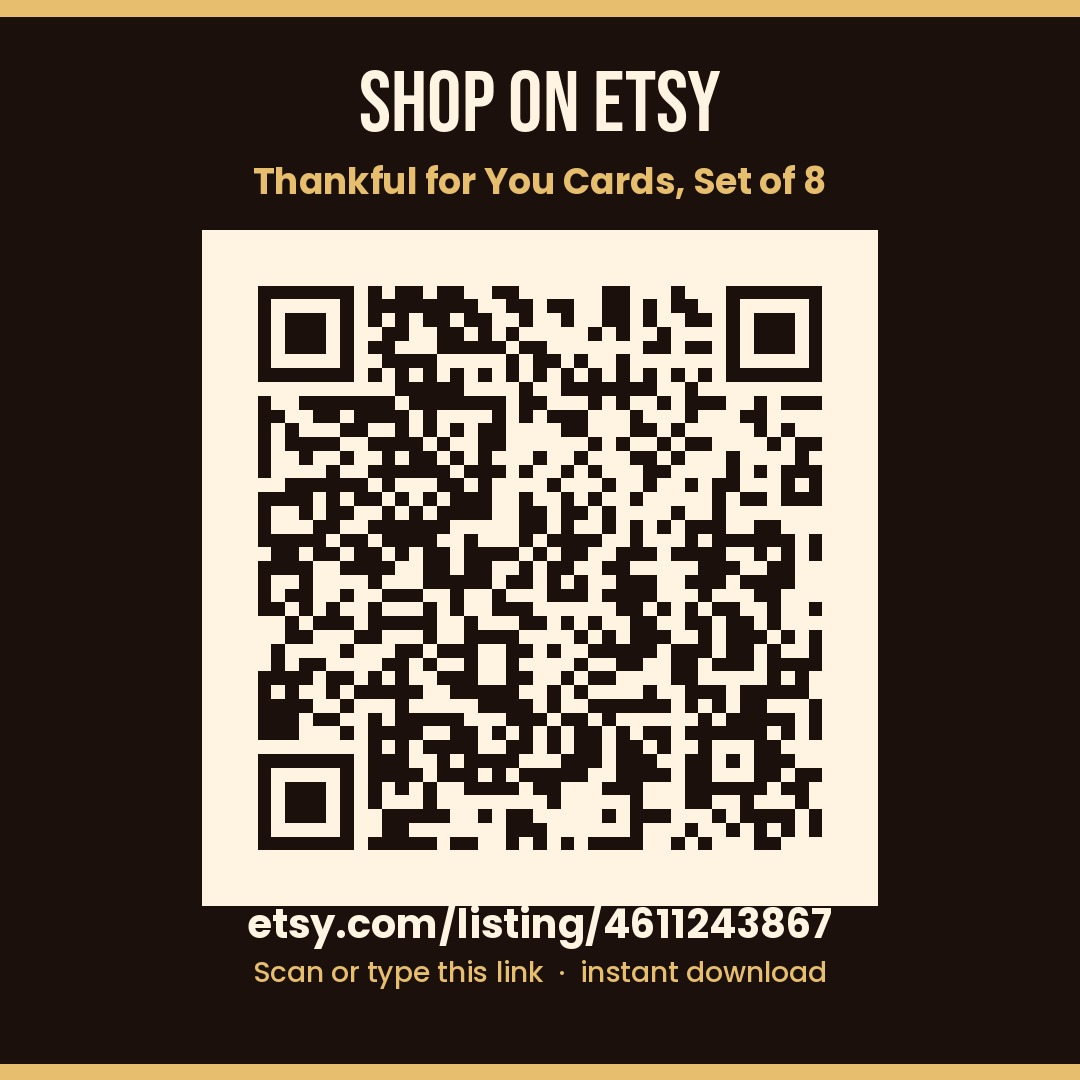
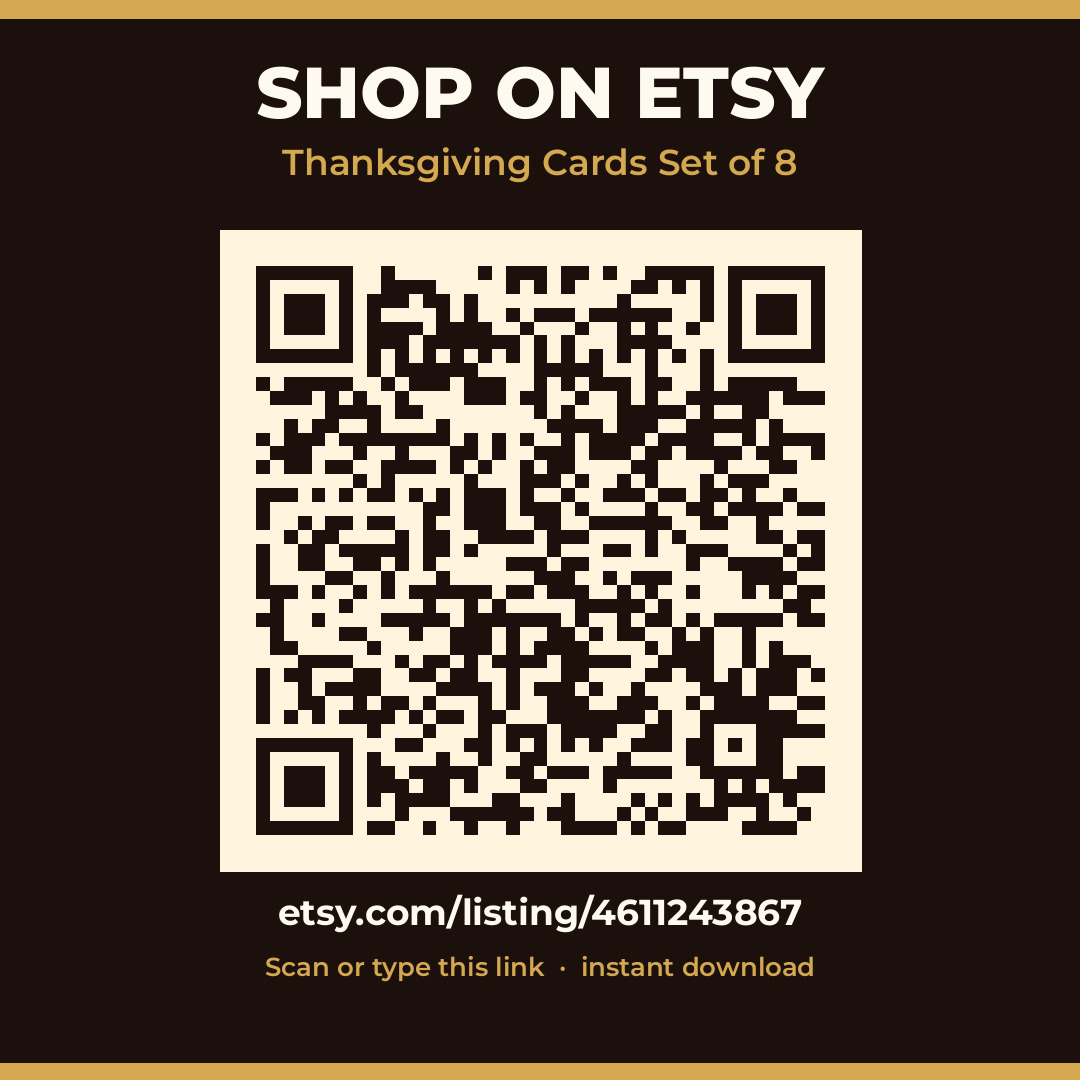
X QR cards and heroes for Festyv X ramp
Adds shop-card redirects for Advent, planner, Christmas and Thanksgiving games, trivia, place cards, leftover labels, thank-you cards, and the FRIENDSGIVING15 coupon URL.

diff --git a/x/4613800390/index.html b/x/4613800390/index.html
@@ -3,12 +3,12 @@
 <head>
 <meta charset="utf-8">
 <meta name="viewport" content="width=device-width, initial-scale=1">
-<meta http-equiv="refresh" content="0; url=https://www.etsy.com/listing/4613800390?utm_source=x&utm_medium=social&utm_campaign=festyv_x">
-<link rel="canonical" href="https://www.etsy.com/listing/4613800390?utm_source=x&utm_medium=social&utm_campaign=festyv_x">
-<title>Thankful for You Cards Set of 4 — Festyv on Etsy</title>
-<script>location.replace('https://www.etsy.com/listing/4613800390?utm_source=x&utm_medium=social&utm_campaign=festyv_x');</script>
+<meta http-equiv="refresh" content="0; url=https://www.etsy.com/listing/4613800390?utm_source=x&utm_medium=social&utm_campaign=festyv_tgiving">
+<link rel="canonical" href="https://www.etsy.com/listing/4613800390?utm_source=x&utm_medium=social&utm_campaign=festyv_tgiving">
+<title>Thankful for You Cards — Festyv on Etsy</title>
+<script>location.replace('https://www.etsy.com/listing/4613800390?utm_source=x&utm_medium=social&utm_campaign=festyv_tgiving');</script>
 </head>
 <body>
-<p>Taking you to Thankful for You Cards Set of 4 on Etsy… <a href="https://www.etsy.com/listing/4613800390?utm_source=x&utm_medium=social&utm_campaign=festyv_x">Continue to the listing</a></p>
+<p>Taking you to Thankful for You Cards on Etsy… <a href="https://www.etsy.com/listing/4613800390?utm_source=x&utm_medium=social&utm_campaign=festyv_tgiving">Continue to the listing</a></p>
 </body>
 </html>

diff --git a/x/4611243867/index.html b/x/4611243867/index.html
@@ -3,12 +3,12 @@
 <head>
 <meta charset="utf-8">
 <meta name="viewport" content="width=device-width, initial-scale=1">
-<meta http-equiv="refresh" content="0; url=https://www.etsy.com/listing/4611243867?utm_source=x&utm_medium=social&utm_campaign=festyv_x">
-<link rel="canonical" href="https://www.etsy.com/listing/4611243867?utm_source=x&utm_medium=social&utm_campaign=festyv_x">
+<meta http-equiv="refresh" content="0; url=https://www.etsy.com/listing/4611243867?utm_source=x&utm_medium=social&utm_campaign=festyv_tgiving">
+<link rel="canonical" href="https://www.etsy.com/listing/4611243867?utm_source=x&utm_medium=social&utm_campaign=festyv_tgiving">
 <title>Thanksgiving Cards Set of 8 — Festyv on Etsy</title>
-<script>location.replace('https://www.etsy.com/listing/4611243867?utm_source=x&utm_medium=social&utm_campaign=festyv_x');</script>
+<script>location.replace('https://www.etsy.com/listing/4611243867?utm_source=x&utm_medium=social&utm_campaign=festyv_tgiving');</script>
 </head>
 <body>
-<p>Taking you to Thanksgiving Cards Set of 8 on Etsy… <a href="https://www.etsy.com/listing/4611243867?utm_source=x&utm_medium=social&utm_campaign=festyv_x">Continue to the listing</a></p>
+<p>Taking you to Thanksgiving Cards Set of 8 on Etsy… <a href="https://www.etsy.com/listing/4611243867?utm_source=x&utm_medium=social&utm_campaign=festyv_tgiving">Continue to the listing</a></p>
 </body>
 </html>

diff --git a/x/4613799888/index.html b/x/4613799888/index.html
@@ -1,0 +1,14 @@
+<!DOCTYPE html>
+<html lang="en">
+<head>
+<meta charset="utf-8">
+<meta name="viewport" content="width=device-width, initial-scale=1">
+<meta http-equiv="refresh" content="0; url=https://www.etsy.com/listing/4613799888?utm_source=x&utm_medium=social&utm_campaign=festyv_tgiving">
+<link rel="canonical" href="https://www.etsy.com/listing/4613799888?utm_source=x&utm_medium=social&utm_campaign=festyv_tgiving">
+<title>Thanksgiving Leftover Labels — Festyv on Etsy</title>
+<script>location.replace('https://www.etsy.com/listing/4613799888?utm_source=x&utm_medium=social&utm_campaign=festyv_tgiving');</script>
+</head>
+<body>
+<p>Taking you to Thanksgiving Leftover Labels on Etsy… <a href="https://www.etsy.com/listing/4613799888?utm_source=x&utm_medium=social&utm_campaign=festyv_tgiving">Continue to the listing</a></p>
+</body>
+</html>

diff --git a/x/4610591046/index.html b/x/4610591046/index.html
@@ -1,0 +1,14 @@
+<!DOCTYPE html>
+<html lang="en">
+<head>
+<meta charset="utf-8">
+<meta name="viewport" content="width=device-width, initial-scale=1">
+<meta http-equiv="refresh" content="0; url=https://www.etsy.com/listing/4610591046?utm_source=x&utm_medium=social&utm_campaign=festyv_tgiving">
+<link rel="canonical" href="https://www.etsy.com/listing/4610591046?utm_source=x&utm_medium=social&utm_campaign=festyv_tgiving">
+<title>Thanksgiving Games Bundle — Festyv on Etsy</title>
+<script>location.replace('https://www.etsy.com/listing/4610591046?utm_source=x&utm_medium=social&utm_campaign=festyv_tgiving');</script>
+</head>
+<body>
+<p>Taking you to Thanksgiving Games Bundle on Etsy… <a href="https://www.etsy.com/listing/4610591046?utm_source=x&utm_medium=social&utm_campaign=festyv_tgiving">Continue to the listing</a></p>
+</body>
+</html>

diff --git a/x/4613779805/index.html b/x/4613779805/index.html
@@ -1,0 +1,14 @@
+<!DOCTYPE html>
+<html lang="en">
+<head>
+<meta charset="utf-8">
+<meta name="viewport" content="width=device-width, initial-scale=1">
+<meta http-equiv="refresh" content="0; url=https://www.etsy.com/listing/4613779805?utm_source=x&utm_medium=social&utm_campaign=festyv_tgiving">
+<link rel="canonical" href="https://www.etsy.com/listing/4613779805?utm_source=x&utm_medium=social&utm_campaign=festyv_tgiving">
+<title>Thanksgiving Trivia Game — Festyv on Etsy</title>
+<script>location.replace('https://www.etsy.com/listing/4613779805?utm_source=x&utm_medium=social&utm_campaign=festyv_tgiving');</script>
+</head>
+<body>
+<p>Taking you to Thanksgiving Trivia Game on Etsy… <a href="https://www.etsy.com/listing/4613779805?utm_source=x&utm_medium=social&utm_campaign=festyv_tgiving">Continue to the listing</a></p>
+</body>
+</html>

diff --git a/x/4613795772/index.html b/x/4613795772/index.html
@@ -1,0 +1,14 @@
+<!DOCTYPE html>
+<html lang="en">
+<head>
+<meta charset="utf-8">
+<meta name="viewport" content="width=device-width, initial-scale=1">
+<meta http-equiv="refresh" content="0; url=https://www.etsy.com/listing/4613795772?utm_source=x&utm_medium=social&utm_campaign=festyv_tgiving">
+<link rel="canonical" href="https://www.etsy.com/listing/4613795772?utm_source=x&utm_medium=social&utm_campaign=festyv_tgiving">
+<title>Thanksgiving Place Cards — Festyv on Etsy</title>
+<script>location.replace('https://www.etsy.com/listing/4613795772?utm_source=x&utm_medium=social&utm_campaign=festyv_tgiving');</script>
+</head>
+<body>
+<p>Taking you to Thanksgiving Place Cards on Etsy… <a href="https://www.etsy.com/listing/4613795772?utm_source=x&utm_medium=social&utm_campaign=festyv_tgiving">Continue to the listing</a></p>
+</body>
+</html>

diff --git a/x/4608646371/index.html b/x/4608646371/index.html
@@ -1,0 +1,14 @@
+<!DOCTYPE html>
+<html lang="en">
+<head>
+<meta charset="utf-8">
+<meta name="viewport" content="width=device-width, initial-scale=1">
+<meta http-equiv="refresh" content="0; url=https://www.etsy.com/listing/4608646371?utm_source=x&utm_medium=social&utm_campaign=festyv_advent">
+<link rel="canonical" href="https://www.etsy.com/listing/4608646371?utm_source=x&utm_medium=social&utm_campaign=festyv_advent">
+<title>Advent Scripture Cards — Festyv on Etsy</title>
+<script>location.replace('https://www.etsy.com/listing/4608646371?utm_source=x&utm_medium=social&utm_campaign=festyv_advent');</script>
+</head>
+<body>
+<p>Taking you to Advent Scripture Cards on Etsy… <a href="https://www.etsy.com/listing/4608646371?utm_source=x&utm_medium=social&utm_campaign=festyv_advent">Continue to the listing</a></p>
+</body>
+</html>

diff --git a/x/4608640283/index.html b/x/4608640283/index.html
@@ -1,0 +1,14 @@
+<!DOCTYPE html>
+<html lang="en">
+<head>
+<meta charset="utf-8">
+<meta name="viewport" content="width=device-width, initial-scale=1">
+<meta http-equiv="refresh" content="0; url=https://www.etsy.com/listing/4608640283?utm_source=x&utm_medium=social&utm_campaign=festyv_x">
+<link rel="canonical" href="https://www.etsy.com/listing/4608640283?utm_source=x&utm_medium=social&utm_campaign=festyv_x">
+<title>Christmas Party Games Bundle — Festyv on Etsy</title>
+<script>location.replace('https://www.etsy.com/listing/4608640283?utm_source=x&utm_medium=social&utm_campaign=festyv_x');</script>
+</head>
+<body>
+<p>Taking you to Christmas Party Games Bundle on Etsy… <a href="https://www.etsy.com/listing/4608640283?utm_source=x&utm_medium=social&utm_campaign=festyv_x">Continue to the listing</a></p>
+</body>
+</html>

diff --git a/x/4621045722/index.html b/x/4621045722/index.html
@@ -1,0 +1,14 @@
+<!DOCTYPE html>
+<html lang="en">
+<head>
+<meta charset="utf-8">
+<meta name="viewport" content="width=device-width, initial-scale=1">
+<meta http-equiv="refresh" content="0; url=https://www.etsy.com/listing/4621045722?utm_source=x&utm_medium=social&utm_campaign=festyv_kdpcomp">
+<link rel="canonical" href="https://www.etsy.com/listing/4621045722?utm_source=x&utm_medium=social&utm_campaign=festyv_kdpcomp">
+<title>2027 Planner Kit — Festyv on Etsy</title>
+<script>location.replace('https://www.etsy.com/listing/4621045722?utm_source=x&utm_medium=social&utm_campaign=festyv_kdpcomp');</script>
+</head>
+<body>
+<p>Taking you to 2027 Planner Kit on Etsy… <a href="https://www.etsy.com/listing/4621045722?utm_source=x&utm_medium=social&utm_campaign=festyv_kdpcomp">Continue to the listing</a></p>
+</body>
+</html>

diff --git a/x/friendsgiving15/index.html b/x/friendsgiving15/index.html
@@ -1,0 +1,14 @@
+<!DOCTYPE html>
+<html lang="en">
+<head>
+<meta charset="utf-8">
+<meta name="viewport" content="width=device-width, initial-scale=1">
+<meta http-equiv="refresh" content="0; url=https://festyv.etsy.com?coupon=FRIENDSGIVING15">
+<link rel="canonical" href="https://festyv.etsy.com?coupon=FRIENDSGIVING15">
+<title>Festyv shop, 15% off with FRIENDSGIVING15 — Festyv on Etsy</title>
+<script>location.replace('https://festyv.etsy.com?coupon=FRIENDSGIVING15');</script>
+</head>
+<body>
+<p>Taking you to Festyv shop, 15% off with FRIENDSGIVING15 on Etsy… <a href="https://festyv.etsy.com?coupon=FRIENDSGIVING15">Continue to the listing</a></p>
+</body>
+</html>
